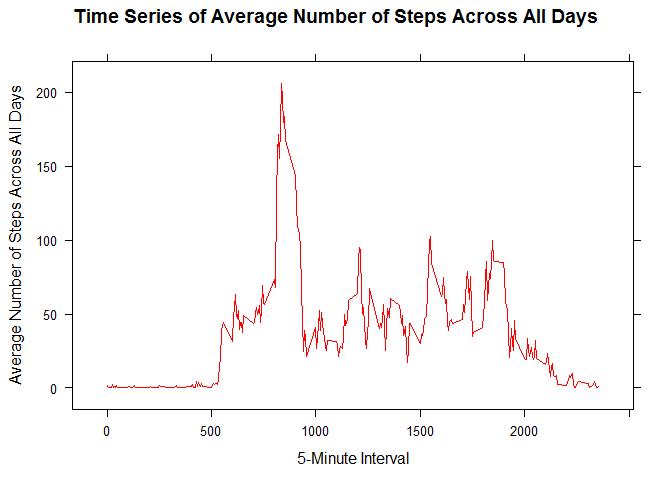
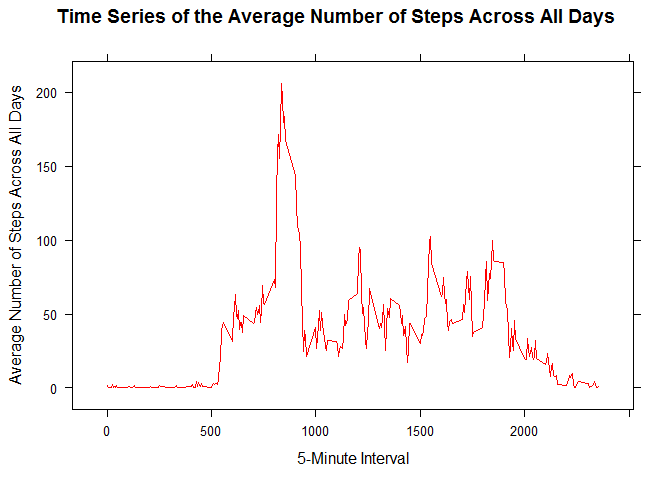
5th submission

Changed region(s): [[0.0938, 0.0, 0.9375, 0.0625]]

diff --git a/PA1_template.html b/PA1_template.html
@@ -112,8 +112,8 @@ hist(steps_dsum[,2],
      xlab=&quot;Steps&quot;,
      ylim=(c(0,40)),
      col='light blue',
-     main=&quot;Histogram of The Total Number of Steps Each Day&quot;)</code></pre>
[1 lines of base64/hex data omitted]
+     main=&quot;Histogram of the Total Number of Steps Each Day&quot;)</code></pre>
[1 lines of base64/hex data omitted]
 </div>
 <div id="calculate-and-report-the-mean-and-median-total-number-of-steps-taken-per-day" class="section level3">
 <h3>2. Calculate and report the <strong>mean</strong> and <strong>median</strong> total number of steps taken per day</h3>
@@ -151,11 +151,11 @@ xyplot(steps ~ interval,
        type = &quot;l&quot;,
        lty = 1,
        lwd = 1,
-       main = &quot;Time Series of Average Number of Steps Across All Days&quot;,
+       main = &quot;Time Series of the Average Number of Steps Across All Days&quot;,
        xlab = &quot;5-Minute Interval&quot;,
        ylab = &quot;Average Number of Steps Across All Days&quot;,
        col.line = &quot;red&quot;)</code></pre>
[2 lines of base64/hex data omitted]
 </div>
 <div id="which-5-minute-interval-on-average-across-all-the-days-in-the-dataset-contains-the-maximum-number-of-steps" class="section level3">
 <h3>2. Which 5-minute interval, on average across all the days in the dataset, contains the maximum number of steps?</h3>
@@ -229,8 +229,8 @@ hist(steps_dsum_complete[,2],
      xlab=&quot;Steps&quot;, 
      ylim=(c(0,40)),
      col='light blue',
-     main=&quot;Histogram of the Total Numer of Steps&quot;)</code></pre>
[1 lines of base64/hex data omitted]
+     main=&quot;Histogram of the Total Number of Steps&quot;)</code></pre>
[1 lines of base64/hex data omitted]
 <pre class="r"><code>mean(steps_dsum_complete$steps, na.rm=TRUE)</code></pre>
 <pre><code>## [1] 10766.19</code></pre>
 <pre class="r"><code>median(steps_dsum_complete$steps,na.rm=TRUE)</code></pre>
@@ -301,7 +301,7 @@ xyplot(steps ~ interval | weekday,
        type = &quot;l&quot;,
        lty = 1,
        lwd = 1,
-       #main = &quot;Time Series of Average Number of Steps&quot;,
+       #main = &quot;Time Series of the Average Number of Steps&quot;,
        xlab = &quot;5-Minute Interval&quot;,
        ylab = &quot;Average Number of Steps&quot;,
        col.line = &quot;red&quot;,

diff --git a/PA1_template.md b/PA1_template.md
@@ -64,7 +64,7 @@ hist(steps_dsum[,2],
      xlab="Steps",
      ylim=(c(0,40)),
      col='light blue',
-     main="Histogram of The Total Number of Steps Each Day")
+     main="Histogram of the Total Number of Steps Each Day")
 ```
 
 ![](PA1_template_files/figure-html/unnamed-chunk-2-1.png) 
@@ -128,7 +128,7 @@ xyplot(steps ~ interval,
        type = "l",
        lty = 1,
        lwd = 1,
-       main = "Time Series of Average Number of Steps Across All Days",
+       main = "Time Series of the Average Number of Steps Across All Days",
        xlab = "5-Minute Interval",
        ylab = "Average Number of Steps Across All Days",
        col.line = "red")
@@ -245,7 +245,7 @@ hist(steps_dsum_complete[,2],
      xlab="Steps", 
      ylim=(c(0,40)),
      col='light blue',
-     main="Histogram of the Total Numer of Steps")
+     main="Histogram of the Total Number of Steps")
 ```
 
 ![](PA1_template_files/figure-html/unnamed-chunk-8-1.png) 
@@ -354,7 +354,7 @@ xyplot(steps ~ interval | weekday,
        type = "l",
        lty = 1,
        lwd = 1,
-       #main = "Time Series of Average Number of Steps",
+       #main = "Time Series of the Average Number of Steps",
        xlab = "5-Minute Interval",
        ylab = "Average Number of Steps",
        col.line = "red",
